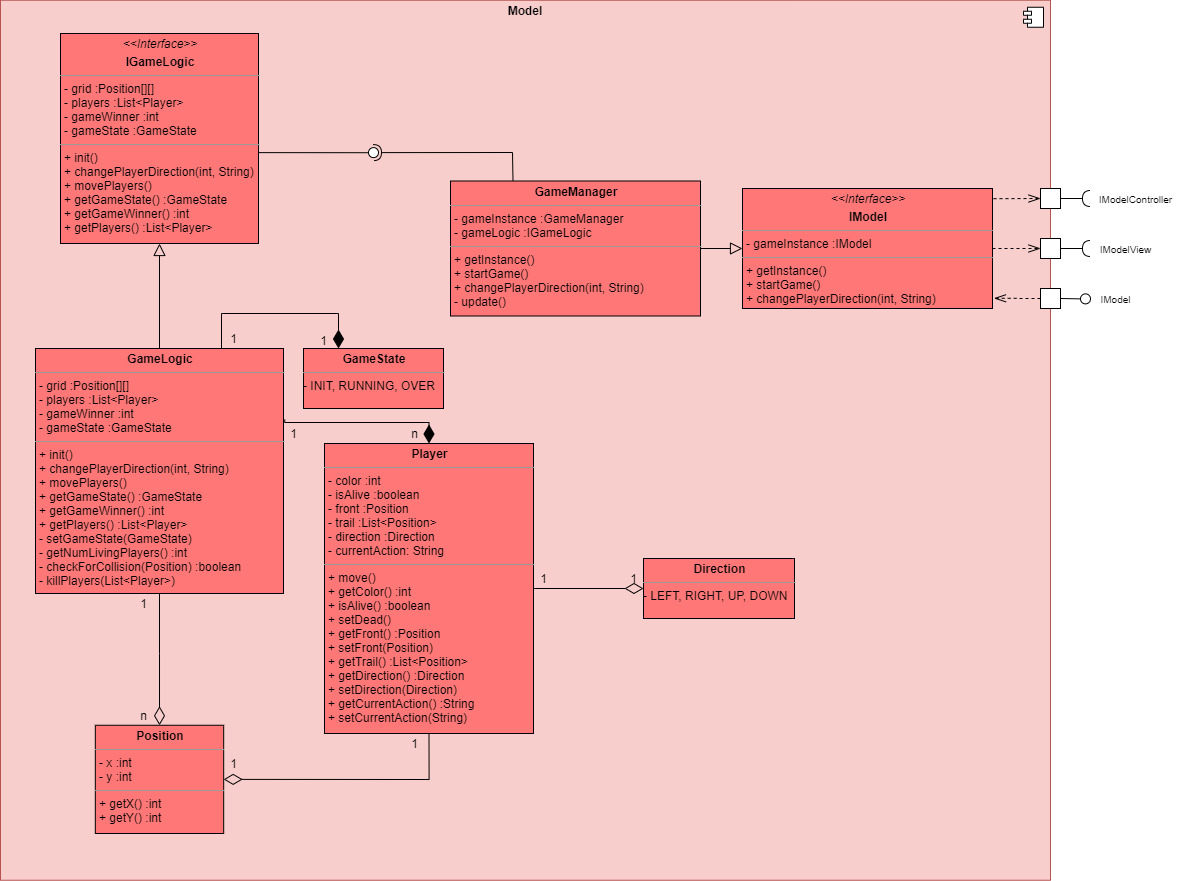
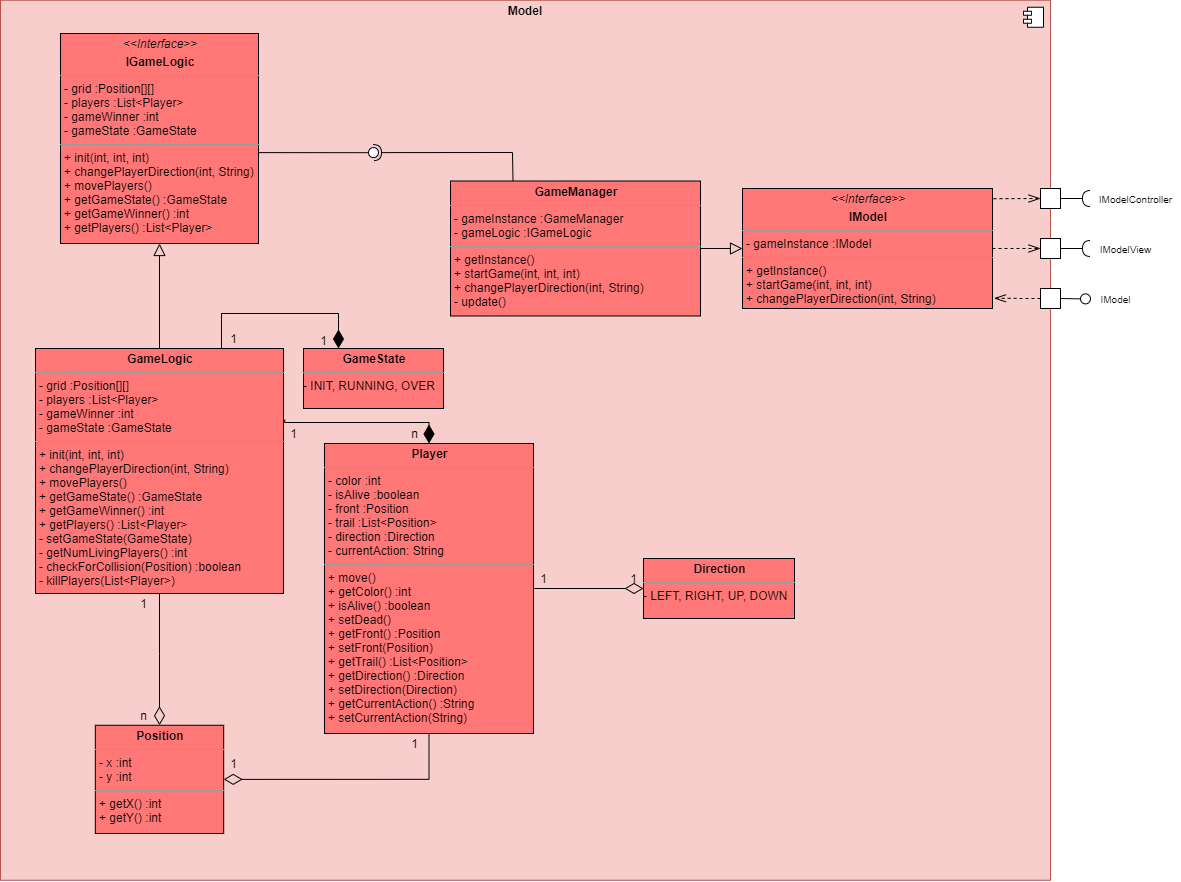
updated lstr + added parameter for startGame in bss

diff --git a/Doku/Dokumentation_Tronspiel.md b/Doku/Dokumentation_Tronspiel.md
@@ -148,7 +148,7 @@ Die Anforderungen wurden mit Hilfe der Storyboard-Methode aufgenommen. Dafür wu
 |UC1 | Controller | int loadDefaultPlayerCount() | Der Nutzer hat eine ungültige Spieleranzahl eingegeben. | Die Default-Spieleranzahl wird im Model gespeichert.  |Die Methode liefert den Default-Wert für die Spieleranzahl aus der Config-Datei und ruft die Methode informUser("Spieleranzahl muss eine Zahl zwischen 2 und 6 sein. Der Default-Wert <<Default-Wert>> wird gesetzt") | Wenn keine Zahl geladen werden konnte, wird eine Exception mit Fehlerbeschreibung geworfen. |
 |UC1 | Controller |int[] loadConfigParams() | Eine gültige Spieleranzahl wurd im Model gespeichert.  | Es wurde eine Liste mit Spielparametern erzeugt. |Die Methode liefert die Parameter aus der Config-Datei in einem int-Array der Länge 4. <br> **Index 0:** Die maximale Wartezeit <br> **Index 1:** Die Tastenbelegung (0: Steuerung über die Pfeiltasten rechts/links; 1: Steuerung über die Tasten 'A'/'D') <br> **Index 2:** Die Geschwindigkeit<br> **Index 3:** Die Spielfeldgröße | Wenn ein Parameter nicht im gültigen Wertebereich liegt oder nicht geladen werden konnte, wird der entsprechende Default-Wert gesetzt: <br> **Default maximale Wartezeit:** 120 Sekunden<br> **Default Geschwindkeit:** 100 (Einheit: Bewegungen/Sekunde) <br> **Default Spielfeldgröße:** Geschwindigkeit * 5 <br><br> Anschließend wird die Methode informUser("Ein oder mehr Parameter aus der Konfigurationsdatei waren ungültig oder konnten nicht geladen werden. Die betroffenen Parameter wurde auf Default-Werte gesetzt.") aufgerufen |
 |UC1 | Model | static Game createGameInstance() | Die Spielparameter wurde durch Benutzereingabe und Laden aus der Config-Datei gesetzt. | Es wird eine Spielinstanz mit der gespeicherten Spieleranzahl und den geladenen Spielparametern erstellt und im Model gespeichert. |Die Methode erstellt eine neue Spielinstanz mit den geladenen Parametern. Die Methode gibt die erstellte Spielinstanz zurück|  |
-|UC3|Model|void startGame(int, int, int)||||
+|UC3|Model|void startGame(int, int, int)|Es sind genug Spieler beigetreten|Das Spiel wurde initialisiert und alle Spieler befinden sich auf ihrer Startposition und sehen den Spielbildschirm|startGame() wird mit Anzahl Spielern, Anzahl Reihen und Anzahl Spalten aufgerufen. Das Spielfeld und die Spieler werden initialisert und die Spieler auf ihre Startpositionen gesetzt. Die Informationen über die Positionen werden an die View zur Darstellung geschickt||
 |UC1, UC2, UC5 | View | void informUser(String) | Eine Exception wurde geworfen. | Dem Nutzer wird ein Text mit der entsprechenden Fehlerbeschreibung angezeigt. |Zeigt Fehlerbeschreibung der Exception dem Nutzer an | |
 |UC1, UC2, UC6, UC8 | View |void showScreen(String) | Der Spielzustand wurde im Controller gewechselt. | Dem Nutzer wird einen anderen Bildschirm angezeigt. |Die Methode zeigt den Bildschirm an, der zum übergebenen Bildschirmzustand passt.  | Wenn zum übergebenen Zustandsparameter kein anzuzeigenden Bildschirm gehört, wird eine Exception mit einer Fehlerbeschreibung geworfen. |
 |UC2 | Controller | void handleWaitingButtonClick() | Der Nutzer befindet sich im Wartebildschirm und hat auf den Button "Cancel" geklickt.| Der Spieler wird im Erfolgsfall zum Startbildschirm weitergeleitet. |Die Methode bricht den Wartevorgang ab. | Wenn mehr als ein Spieler warten, wird die Methode informUser("Wartevorgang kann nicht abgebrochen werden, wenn mehrere Spieler warten") aufgerufen und anschließend eine Exception mit Fehlerbeschreibung geworfen.|
@@ -162,7 +162,12 @@ Die Anforderungen wurden mit Hilfe der Storyboard-Methode aufgenommen. Dafür wu
 |UC4 | View | void drawPlayers() | Der Nutzer befindet sich im Spielbildschirm und die Spielfeldanzeige soll die aktuelle Positionen der Spieler zeigen | Auf dem Spielfeld werden die aktuell lebenden Spieler an ihren aktuellen Positionen angezeigt. |Die Methode ruft die Methode getPlayersinGameField() auf, um Informationen über die aktuellen Spieler zu erhalten. Anhand dieser Informationen werden die Spieler an ihrer aktuellen Position und Ausrichtung in Szene gesetzt. | Im Fehlerfall wird eine Exception mit Fehlerbeschreibung geworfen |
 |UC4 | View | void drawTileColors() | Der Nutzer befindet sich im Spielbildschirm und die Spielfeldanzeige soll die aktuelle Einfärbung des Spielfeldes zeigen | Auf dem Spielfeld wird die aktuell gültige Einfärbung des Spielfeldes angezeigt. |Die Methode holt von jedem Spieler im Spielfeld die eingefärbten Felder und die entsprechende Farbe. Anhand dieser Informationen wird jedes mit Farbe belegte Feld des Spielfeldes in der ermittelten Farbe angezigt. | |
 |UC4| Controller | String handleDirectionKeyboardInput() |Der Nutzer hat eine Taste füe die Steuerung seines Spielers gedrückt.| Die gewünschte Richtungsänderung wird zurückgegeben. | Die Methode liefert die Richtung, die über die Tastatur vom Nutzer eingegeben wurde. Wenn die entsprechende Tastenbelegung für die Steuerung des Motorrads nach links gedrückt wurde, gibt die Methode den String 'left' zurück. <br> Wenn die entsprechende Tastenbelegung für die Steuerung des Motorrads nach rechts gedrückt wurde, gibt die Methode den String 'right' zurück.| Im Fehlerfall wird eine Exception mit Fehlerbeschreibung geworfen |
-|UC4 | Model | void changePlayerDirection(int, String) | Der Nutzer hat eine Taste für die Richtungsänderung gedrückt und die gewünscht Richtung wurde ermittelt. | Der Spieler wurde um 90° in die gewünschte Richtung gedreht.|Der wird als Parameter die Spieler-ID übergeben. Die Methode ändert die Richtung des Spielers mit der übergebenen Spieler-ID nach links oder rechts. Der übergebene String liefert die Information, ob der Spieler nach links oder nach rechts gesteuert wird. | Im Fehlerfall wird eine Exception mit Fehlerbeschreibung geworfen. |
+|UC4 | Model | void changePlayerDirection(int, String) | Der Nutzer hat eine Taste für die Richtungsänderung gedrückt und die gewünschte Richtung wurde ermittelt. | Der Spieler wurde um 90° in die gewünschte Richtung gedreht.|Der Methode werden als Parameter die Spieler-ID und ein String übergeben, welche die Information liefert, ob der Spieler nach links oder nach rechts gesteuert wird. Der Spieler mit der ID wird in der Liste der Spieler gesucht. Es wird überprüft, ob der Spieler noch am Leben ist und ob er in diesem Tick bereits eine Aktion getätigt hat. Aus der aktuellen front und der Richtung des Spielers bezogen aufs Spielfeld werden die neue front und die neue Richtung berechnet und gesetzt. Außerdem wird gespeichert, dass der Spieler diesen Tick eine Aktion getätigt hat. | Wenn der Spieler mit der übergebenen ID nicht unter den Spielern gefunden wurde, nicht am Leben ist oder bereits eine Aktion diesen Tick gemacht hat, wird die Eingabe ignoriert. |
+|UC4,5,6,7,8 | Model | void update() | Das Spiel befindet sich im Zustand RUNNING. | Alle lebenden Spieler wurden bewegt, das Spiel ist möglicherweise vorbei. | Diese Methode ist die tick-Methode/ der Gameloop des Spiels. Sie wird also in festen Zeitintervallen ausgeführt. Diese Methode ruft intern movePlayers() zum Bewegen und womöglichen Töten von Spielern auf. Dann wird der GameState geprüft. Ist das Spiel RUNNING, werden alle neuen Positionen der Spieler an die View mittels updatePlayer() übermittelt. Tote Spieler werden hier auch mitgeschickt mit der Info, dass sie entfernt werden sollen. Ist das Spiel OVER wird stattdessen der Sieger erfragt und an den Controller übermittelt, um das Spiel zu beenden.||
+|UC4,5,6,7,8 | Model | void movePlayers() | Das Spiel befindet sich im Zustand RUNNING. Diese Methode wurde in update() aufgerufen. | Alle Spieler wurden bewegt und eventuell Spieler getötet. | Es wird zu Beginn eine leere Liste initialisiert für Spieler, die diesen Zug sterben könnten. Dann wird über alle lebenden Spieler iteriert. Spieler werden der Liste hinzugefügt, wenn es eine Kollision an ihrer front gibt (durch checkForCollision()). Wenn es keine Kollision für den aktuell betrachteten Spieler gibt, wird move() aufgerufen, um den Spieler zu bewegen. Wurden alle Spieler abgehandelt, werden in der Methode killPlayers() alle Spieler in der Liste getötet. Ist die Liste leer, wird einfach zurückgekehrt. ||
+|UC5 | Model | boolean checkForCollision(Position) | Das Spiel befindet sich im Zustand RUNNING. Diese Methode wurde in movePlayers() aufgerufen. | Eine Kollision wurde korrekt erkannt und zurückgegeben. | Der Methode wird die front eines Spielers übergeben. Befindet sich diese außerhalb des Spielfelds - x > Anzahl Spalten oder y > Anzahl Reihen oder eins der beiden < 0 - wird true zurückgegeben. Wenn  front gleich der front eines anderen lebenden Spielers ist, wird auch true zurückgegeben. Ist das nicht der Fall wird geschaut, ob sich die front in einem trail eines lebenden Spielers (auch des Spielers selbst) befindet. Auch hier wird demnach true zurückgegeben, sonst false. ||
+|UC4 | Model | void move() | Das Spiel befindet sich im Zustand RUNNING. Diese Methode wurde in movePlayers() aufgerufen.| Der Spieler wurde bewegt. Eine neue front wurde gesetzt | Die front des Spielers wird an den trail angehangen. Die currentAction wird auf null gesetzt. Die nächste front wird auf Basis von der direction berechnet und gesetzt. Damit wird eine Bewegung für den nächsten Tick sichergestellt, falls keine Eingabe von dem Spieler kommt. ||
+|UC4,5,6,7,8 | Model | void killPlayers(List<Player>) | Das Spiel befindet sich im Zustand RUNNING. Diese Methode wurde in movePlayers() aufgerufen. | Zu tötende Spieler wurden getötet und eventuell ein Sieger des Spiels bestimmt. | Ist die übergebene Liste leer, wird einfach zurückgekehrt. Dann wir geprüft, ob die Größe Liste gleich Anzahl lebender Spieler ist. In dem Fall hat man ein Unentschieden, der gameWinner wird auf -1 und der GameState auf OVER gesetzt und es wird returned. Andernfalls werden durch setPlayerDead(id) alle Spieler der Liste getötet und ihr trail gelöscht. Ist danach nur noch ein Spieler übrig, ist dies der Gewinner, gameWinner wird auf seine ID und der GameState auf OVER gesetzt. ||
 |UC5 | Model | Position checkForCollision() | Die Position der Spieler wurde geändert. | Die Position der Kollision wurde ermittelt und zurückgegeben |Die Methode prüft, ob es eine Kollision auf dem Spielfeld gegeben hat. Sie gibt die Position zurück, wenn eine Kollision stattgefunden hat, sonst null. | Im Fehlerfall wird eine Exception mit Fehlerbeschreibung geworfen|
 |UC5, UC7|  Model| void setPlayerDead(int) | Es hat eine Kollision stattgefunden. | Der Nutzer, dessen Spieler entfernt wurde, ist nicht mehr auf dem Spielfeld zu sehen. Tastendrücken des Nutzers für die Steuerung werden nicht mehr registriert. Der Spieler wurde als tot markiert | Die Methode entfernt die Spur des Spielers mit der übergebenen Spieler-ID aus dem Spielfeld. Die Methode informUser("You lose...Du wurdest aus dem Spiel entfernt"), um den Nutzer zu informieren. | |
 |UC5, UC7| View |removeTileColor(Color) | Ein Spieler ist gestorben und wurde aus dem Spiel entfernt. | Die Felder, die mit als Parameter eingegebenen Farbe eingefärbt waren, sind nicht mehr eingefärbt, sondern haben die gleiche Farbe wie der Spielhintergrund.| Die Methode ändert die Farbe von jedem Feld mit der als Parameter übergebenen Farbe zur Hintergrundfarbe. | |
